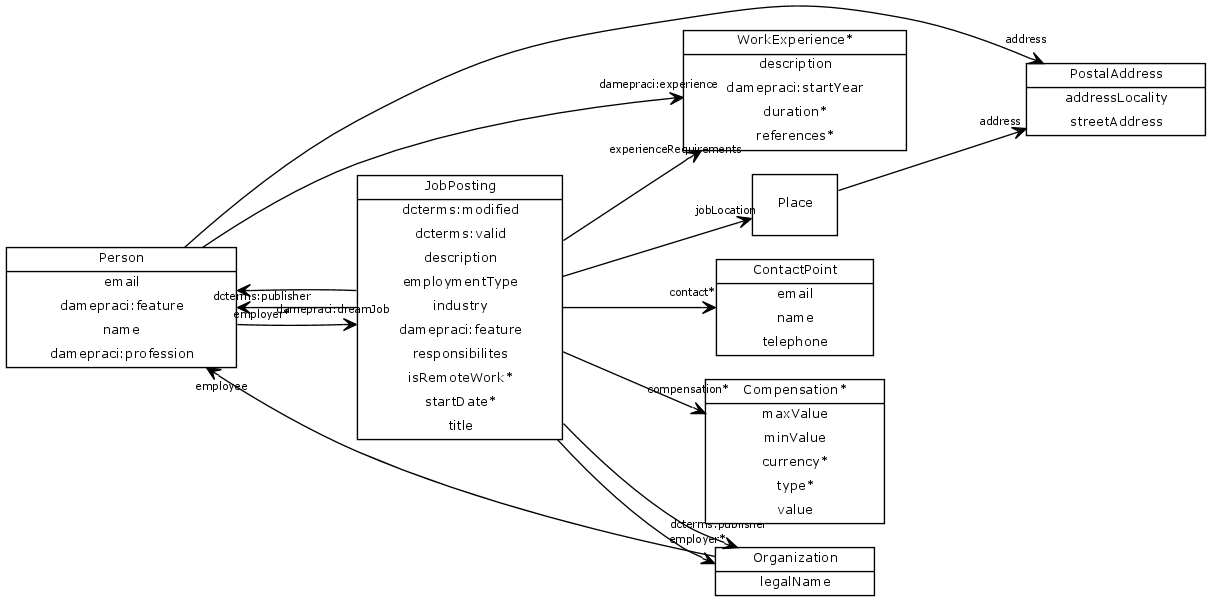
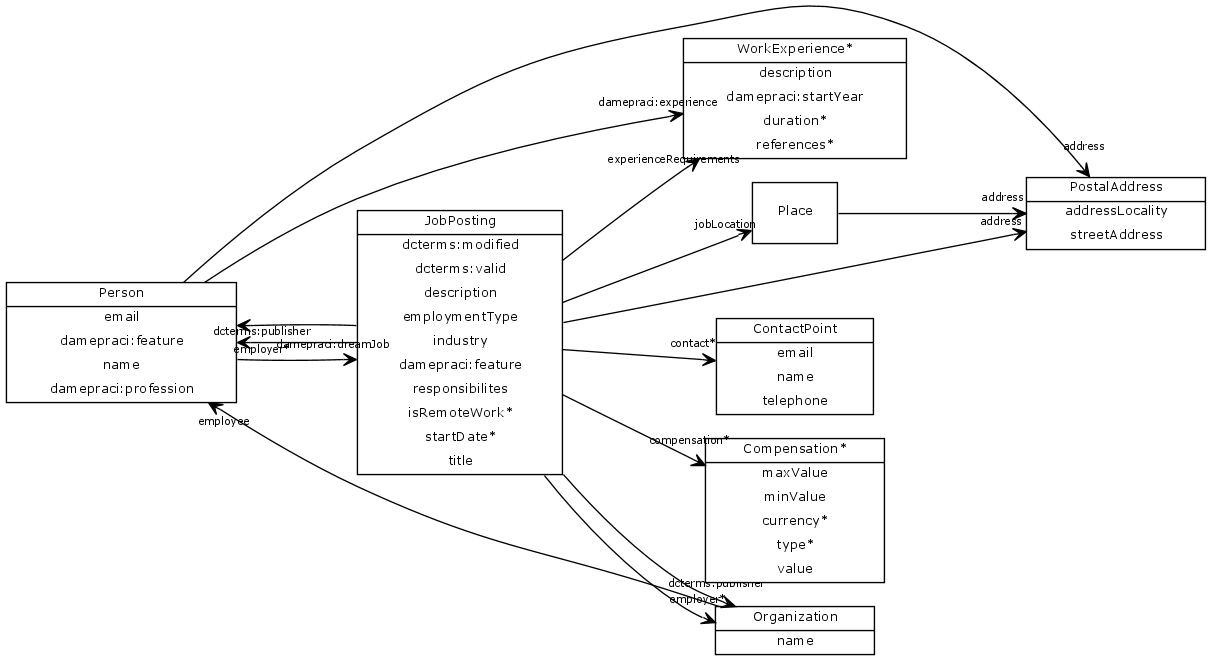
legalName => name

diff --git a/README.md b/README.md
@@ -1,6 +1,9 @@
 # data-modelling
 
-Collection of data modelling patterns for job postings based on [Schema.org](http://schema.org). Associated documentation and data modelling recipes are available on the [project wiki](https://github.com/OPLZZ/data-modelling/wiki).
+Collection of data modelling patterns for job postings based on [Schema.org](http://schema.org). Associated documentation and data modelling recipes are available on the [project wiki](https://github.com/OPLZZ/data-modelling/wiki):
+
+* Reference: [English](https://github.com/OPLZZ/data-modelling/wiki/Reference-English), [česky](https://github.com/OPLZZ/data-modelling/wiki/Reference-Czech)
+* RDFa recipe: [English](https://github.com/OPLZZ/data-modelling/wiki/RDFa-Recipe-English), [česky](https://github.com/OPLZZ/data-modelling/wiki/RDFa-Recipe-Czech)
 
 The data model is proposed as an [extension for Schema.org](http://www.w3.org/wiki/WebSchemas/JobMarket).
 
